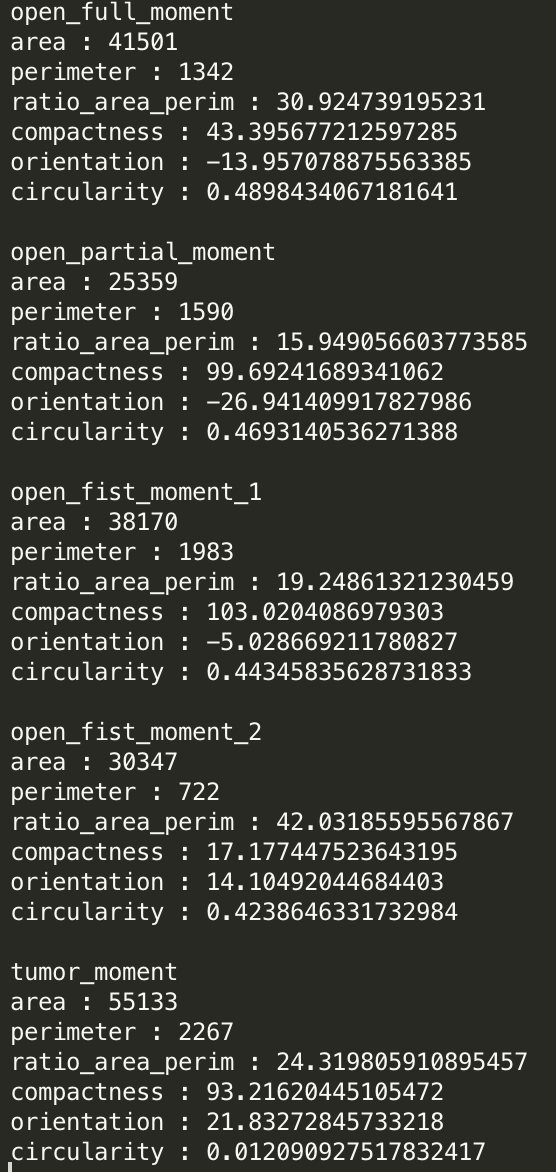
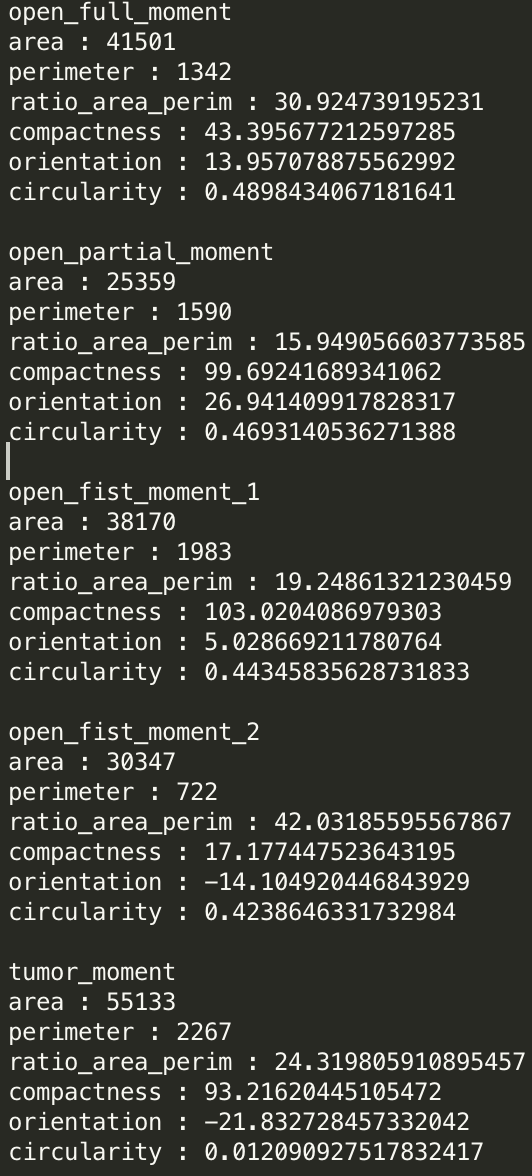
modified orientation

Changed region(s): [[0.0, 0.0, 0.9925, 0.5836], [0.0, 0.6143, 0.9925, 1.0]]

diff --git a/hw3/src/untitled.py b/hw3/src/untitled.py
@@ -1,0 +1,198 @@
+'''
+To run on GPU, make sure tensorflow-gpu is installed (preferably the same version as tensorflow). 
+Tensorflow 1.15.0 tested. Not sure if makes for >= 2.0
+'''
+
+flags = {
+    'input_snippet_training_dir': '/projectnb/saenkog/awong1/dataset/kitti/processed3/training',
+    'input_snippet_validation_dir': '/projectnb/saenkog/awong1/dataset/kitti/processed3/validation',
+    'input_snippet_test_dir': '/projectnb/saenkog/awong1/dataset/kitti/processed3/testing',	
+    'NUM_EPOCHS': 80,
+    'STEPS_PER_EPOCH': 500, # steps_per_epoch = ceil(num_samples / batch_size)
+    'INPUT_SHAPE': (128, 128, 1),
+    'SEED': 123,
+    'SAVE_DIRECTORY': 'conv_mil',
+    'MODEL_NAME': 'model33_kitti_80epoch_0.001lr.h5',
+    'TRAIN': 1,
+    'VISUALIZE': 1,
+    'LEARNING_RATE': 0.001,
+    'NUM_CLASSES': 2
+}
+
+print("c0 | flags")
+print(flags)
+
+import os
+import argparse
+
+import tensorflow as tf
+print("c1 | tf test gpu avail:", tf.test.is_gpu_available()) # True/False
+from tensorflow.python.client import device_lib
+print("c1 | device_lib.list_local_devices: ", device_lib.list_local_devices()) # list of DeviceAttributes
+
+import keras
+import numpy as np
+
+from keras import backend as K
+from keras.layers import Dense, Conv2D, MaxPooling2D
+from keras.layers import Layer
+from keras.models import Sequential, load_model
+
+from datasets import Mnist
+from keras import optimizers
+
+
+# Neural Network Class
+class NoisyAnd(Layer):
+    """Custom NoisyAND layer from the Deep MIL paper"""
+
+    def __init__(self, output_dim=flags['NUM_CLASSES'], **kwargs):
+        self.output_dim = output_dim
+        super(NoisyAnd, self).__init__(**kwargs)
+
+    def build(self, input_shape):
+        self.a = 10  # fixed, controls the slope of the activation
+        self.b = self.add_weight(name='b',
+                                 shape=(1, input_shape[3]),
+                                 initializer='uniform',
+                                 trainable=True)
+        super(NoisyAnd, self).build(input_shape)  # Be sure to call this at the end
+
+    def call(self, x):
+        mean = tf.reduce_mean(x, axis=[1, 2])
+        res = (tf.nn.sigmoid(self.a * (mean - self.b)) - tf.nn.sigmoid(-self.a * self.b)) / (
+                tf.nn.sigmoid(self.a * (1 - self.b)) - tf.nn.sigmoid(-self.a * self.b))
+        return res
+
+    def compute_output_shape(self, input_shape):
+        return input_shape[0], input_shape[3]
+
+
+def define_model(input_shape, num_classes):
+    """Define Deep FCN for MIL, layer-by-layer from original paper"""
+    model = Sequential()
+    model.add(Conv2D(32, kernel_size=(3, 3),
+                     activation='relu',
+                     input_shape=input_shape))
+    model.add(Conv2D(64, (3, 3), activation='relu'))
+    model.add(MaxPooling2D(pool_size=(2, 2)))
+    model.add(Conv2D(64, (3, 3), activation='relu'))
+    model.add(MaxPooling2D(pool_size=(2, 2)))
+    model.add(Conv2D(128, (3, 3), activation='relu'))
+    model.add(MaxPooling2D(pool_size=(2, 2)))
+    model.add(Conv2D(128, (3, 3), activation='relu'))
+    model.add(Conv2D(1000, (3, 3), activation='relu'))
+    model.add(Conv2D(num_classes, (1, 1), activation='relu'))
+    model.add(NoisyAnd(num_classes))
+    model.add(Dense(num_classes, activation='softmax'))
+    return model
+
+def train_using_generator(train_generator, val_generator, epochs, steps_per_epoch, seed, input_shape, num_classes):
+    np.random.seed(seed)
+    model = define_model(input_shape, num_classes)
+    model.summary()
+    sgd = optimizers.SGD(lr=flags['LEARNING_RATE'])
+    print("Learning rate={}".format(flags['LEARNING_RATE']))
+    model.compile(loss=keras.losses.categorical_crossentropy,
+                  optimizer=sgd,
+                  metrics=['accuracy'])
+    model.fit_generator(train_generator, steps_per_epoch=steps_per_epoch, epochs=epochs, verbose=1, shuffle=True)
+    return model
+
+# Database Generator
+from keras_preprocessing.image import ImageDataGenerator
+class kitti_flow_from_dir_generator():
+    def __init__(self, dataset_path):
+        self.num_classes = 2
+        self.input_shape = (128, 128, 1)
+        
+        datagen = ImageDataGenerator()
+        self.train_generator = datagen.flow_from_directory(
+            directory = dataset_path,
+            target_size=(128, 128),
+            color_mode="grayscale",
+            batch_size=128,
+            class_mode="categorical",
+            shuffle=True,
+            seed=123
+        )
+
+# Database Loader
+def read_and_process_img(img_path, resize_dim=(128, 128)):
+    img = cv2.imread(img_path, 0)
+    img = cv2.resize(img, resize_dim)
+    img = np.expand_dims(img, axis=4)
+    return img
+
+def build_dataset(dataset_path, debug=1):
+    X, y = [], []
+    for class_name in sorted(os.listdir(dataset_path)):
+        # Traverse image dir
+        for img_name in sorted(os.listdir(dataset_path + "/" + class_name)):
+            img_path = dataset_path + "/" + class_name + "/" + img_name
+            img = read_and_process_img(img_path, resize_dim=(128, 128))
+            X.append(img)
+            y.append(class_name)
+    X,y = np.array(X), np.array(y)
+    return X, y
+
+# Execution
+def main():
+    # Create generator
+    train_generator = kitti_flow_from_dir_generator(flags['input_snippet_training_dir']).train_generator
+    val_generator = kitti_flow_from_dir_generator(flags['input_snippet_validation_dir']).train_generator
+
+    # Make save directory if it doesn't exist
+    if not os.path.exists(flags['SAVE_DIRECTORY']):
+        os.makedirs(flags['SAVE_DIRECTORY'])
+
+    filepath = os.path.join(flags['SAVE_DIRECTORY'], flags['MODEL_NAME'])
+    config = tf.ConfigProto()
+    config.gpu_options.allow_growth = False	# 11,13
+    config.gpu_options.per_process_gpu_memory_fraction = 0.1	# 12
+    config.log_device_placement = True
+    
+    with tf.Graph().as_default():
+        with tf.Session() as sess:
+            K.set_session(sess)
+
+            # Train or load model
+            if flags['TRAIN']:            
+                model = train_using_generator(train_generator, 
+                                              val_generator,
+                                              epochs=flags['NUM_EPOCHS'],
+                                              steps_per_epoch=flags['STEPS_PER_EPOCH'],
+                                              seed=flags['SEED'],
+                                              input_shape=flags['INPUT_SHAPE'],
+                                              num_classes=flags['NUM_CLASSES'])
+                model.save(filepath)
+                print("Done. Model saved.")
+            else:
+                model = load_model(filepath, custom_objects={'NoisyAnd': NoisyAnd})
+
+            # Load test set
+            X_test, y_test = build_dataset(flags['input_snippet_test_dir'], output_orig=False)
+            X_test_orig, _ = build_dataset(flags['input_snippet_test_dir'], output_orig=True)
+
+            print("X_test shape={}, y_test shape={}".format(X_test.shape, y_test.shape))
+            y_test_proc = (y_test != 'has_pedestrian')
+            print("y_test_proc shape:", y_test_proc.shape)
+            # Evaluation
+            y_test_one_hot = keras.utils.to_categorical(y_test_proc, num_classes=flags['NUM_CLASSES'], dtype='int')
+            print(y_test_one_hot.shape)
+
+            eval_acc = model.evaluate(X_test, y_test_one_hot)
+            print("eval_acc (loss, precision): ", eval_acc)
+
+            # Prediction (Manual)
+            raw_preds = model.predict(X_test)
+            processed_preds = np.argmax(raw_preds, axis=1)
+
+            # Print
+            for i in range(len(X_test)):
+                print("Ground Truth =", y_test[i], ", Prediction(has pedestrian)=",  processed_preds[i]==0, ", Raw Prediction =", raw_preds[i])
+                plt.imshow(X_test_orig[i])
+                plt.show()
+
+if __name__ == "__main__":
+	main()

diff --git a/hw3/src/hw3_p1_utils.py b/hw3/src/hw3_p1_utils.py
@@ -366,37 +366,18 @@ def calc_perimeter(boundary_img, boundary_color=[0,0,0]):
 
 def calc_second_moment(img, obj_color,x_bar, y_bar, area):
     a,b,c = 0,0,0
-    m_11, m_20, m_02 = 0,0,0
-
     for i in range(img.shape[1]): # x
         for j in range(img.shape[0]): # y
             if np.any(np.all(img[j][i] == obj_color)):
                 a += pow((i - x_bar), 2)
-                b += 2 * (i-x_bar) * (j-y_bar)
+                b += 2 * (i-x_bar) * (-1 * (j-y_bar))
                 c += pow((j - y_bar), 2)
-                m_20 += pow(i, 2)
-                m_02 += pow(j, 2)
-                m_11 += (i * j)
-
     h = pow(pow((a-c), 2) + pow(b,2), 0.5)
     
     E_min = (a+c)/2 - pow((a-c),2)/(2*h) - pow(b,2)/(2*h) if h>0 else (a+c)/2
     E_max = (a+c)/2 + pow((a-c),2)/(2*h) + pow(b,2)/(2*h) if h>0 else (a+c)/2
     circularity = E_min/E_max if (E_min > 0 and E_max > 0) else 0
-
-    # Orientation
-
-    # orientation = 0.5 * np.arctan((2*b)/(a+c)) if (a+c) > 0 else 0    # 1
-    # arctan_num = (2 * (b - x_bar * y_bar))    # 2
-    # arctan_denum = ((a - pow(x_bar, 2)) - (c - pow(y_bar, 2)))    # 2
-    # orientation = np.rad2deg(0.5 * np.arctan(arctan_num/arctan_denum))    #2
-
-    mu_bar_20 = (m_20/area) - pow(x_bar, 2)
-    mu_bar_02 = (m_02/area) - pow(y_bar, 2)
-    mu_bar_11 = (m_11/area) - (x_bar * y_bar)
-    arctan_in = (2 * mu_bar_11) / (mu_bar_20 - mu_bar_02)
-    orientation = np.rad2deg(0.5 * np.arctan(arctan_in))
-
+    orientation = np.rad2deg(0.5 * np.arctan(b/(a-c))) if (a-c) != 0 else 90
     return a,b,c,h,E_min,E_max,circularity,orientation
 
 # In: x,y + rgb channel image
